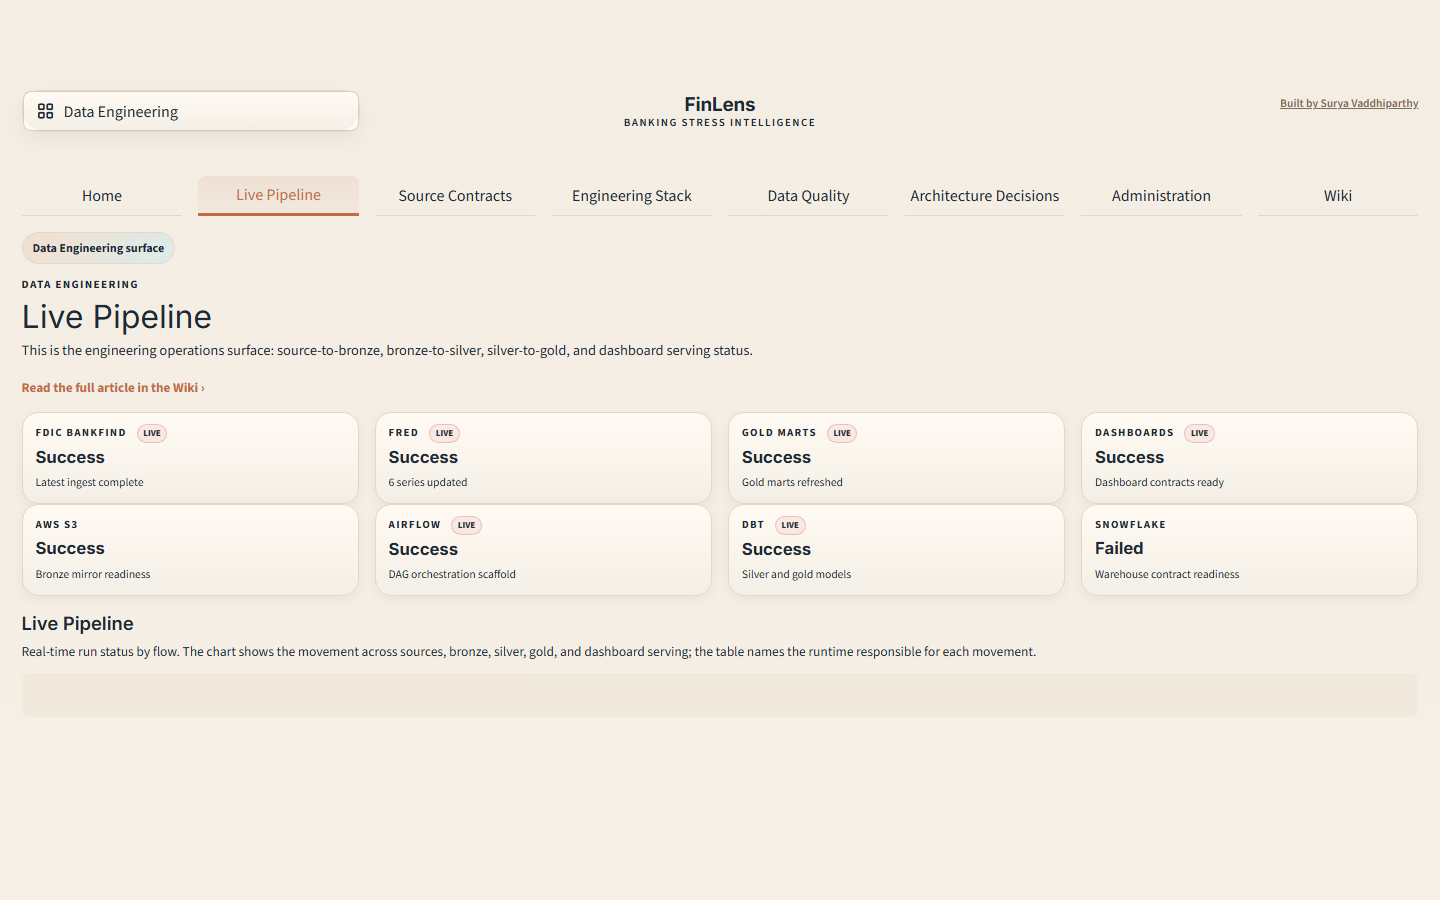
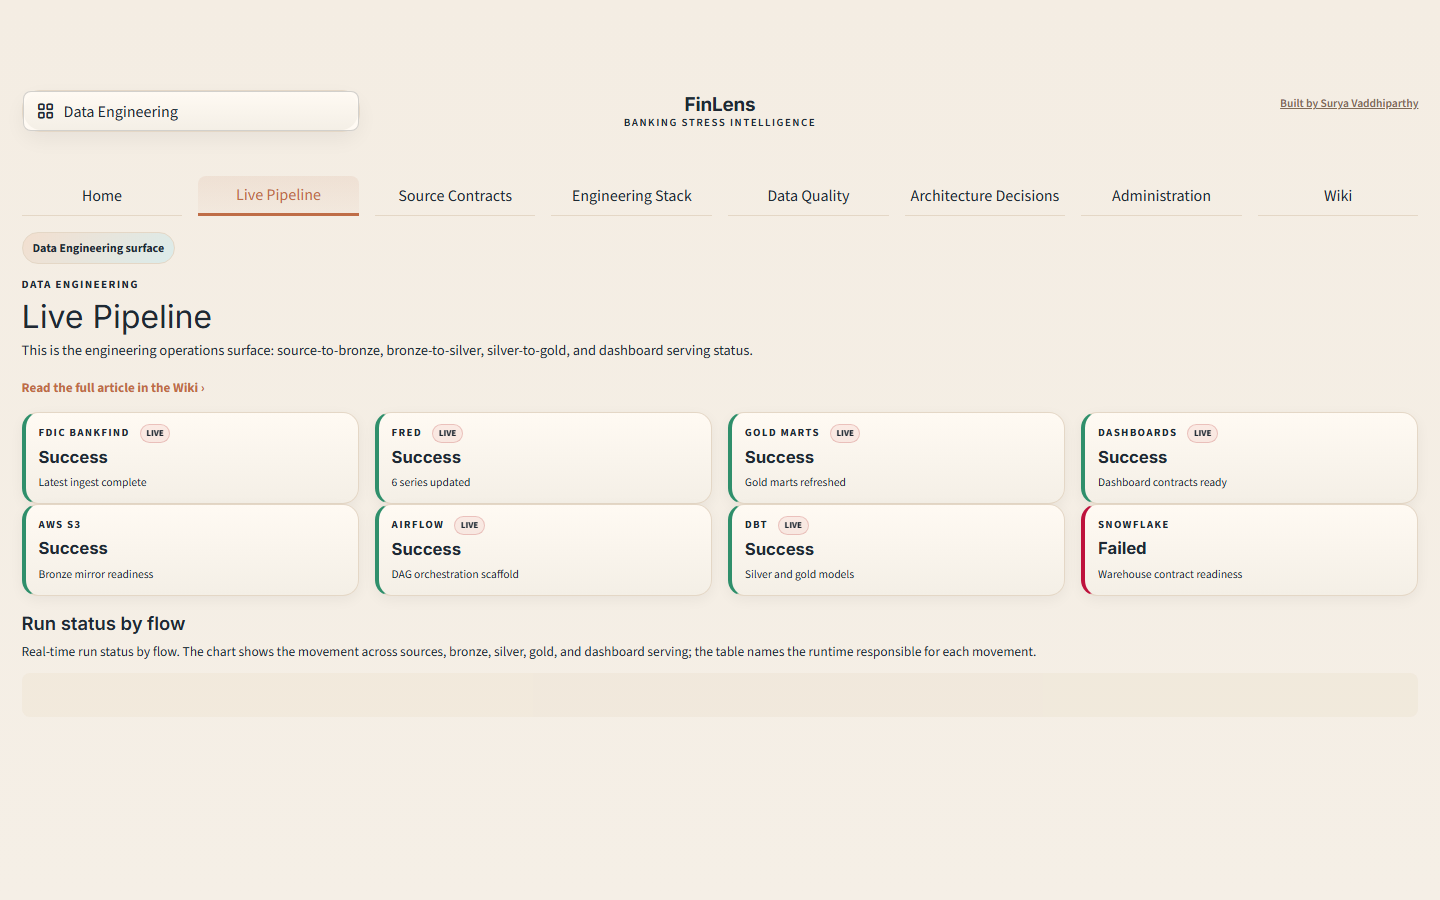
Ceiling UI pass: status-colored cards, heading dedupe, adversarial-review captures
- metric_card gains a status tone (ok/warn/bad colored edge) + status_tone() helper; DE pipeline
  and infra cards + the GX result card now show Failed/Deferred distinctly from Success (the
  Snowflake "Failed", from the expired free trial, is now scannable).
- De-duplicated the "Live Pipeline" heading (lower section -> "Run status by flow").
- Use-notice CTA set to type=primary.
- Adversarial full-page capture suite (audit/screenshots/ceiling/) + reviewer pass: the new
  chat widget and bank report were rated at/near ceiling; the earlier "blank" findings were
  capture-timing artifacts (surfaces verified to render via assertions + re-capture with waits).

diff --git a/streamlit_app/pages/4_Data_Engineering.py b/streamlit_app/pages/4_Data_Engineering.py
@@ -44,6 +44,7 @@ from streamlit_app.lib.ui_components import (
     inject_styles,
     metric_card,
     section_heading,
+    status_tone,
     styled_table,
     tech_bulletin,
 )
@@ -1192,29 +1193,37 @@ if active_section == "pipeline":
             live_label("FDIC BankFind"),
             pipeline_frame.iloc[0]["status"],
             pipeline_frame.iloc[0]["note"],
+            tone=status_tone(pipeline_frame.iloc[0]["status"]),
         )
     with card2:
-        metric_card(live_label("FRED"), pipeline_frame.iloc[2]["status"], pipeline_frame.iloc[2]["note"])
+        metric_card(live_label("FRED"), pipeline_frame.iloc[2]["status"],
+                    pipeline_frame.iloc[2]["note"], tone=status_tone(pipeline_frame.iloc[2]["status"]))
     with card3:
-        metric_card(live_label("Gold Marts"), pipeline_frame.iloc[5]["status"], pipeline_frame.iloc[5]["note"])
+        metric_card(live_label("Gold Marts"), pipeline_frame.iloc[5]["status"],
+                    pipeline_frame.iloc[5]["note"], tone=status_tone(pipeline_frame.iloc[5]["status"]))
     with card4:
         metric_card(
             live_label("Dashboards"),
             pipeline_frame.iloc[6]["status"],
             pipeline_frame.iloc[6]["note"],
+            tone=status_tone(pipeline_frame.iloc[6]["status"]),
         )
     infra1, infra2, infra3, infra4 = st.columns(4)
     stack = platform_stack_frame()
     with infra1:
-        metric_card("AWS S3", stack.iloc[0]["Status"], "Bronze mirror readiness")
+        metric_card("AWS S3", stack.iloc[0]["Status"], "Bronze mirror readiness",
+                    tone=status_tone(stack.iloc[0]["Status"]))
     with infra2:
-        metric_card(live_label("Airflow"), stack.iloc[1]["Status"], "DAG orchestration scaffold")
+        metric_card(live_label("Airflow"), stack.iloc[1]["Status"], "DAG orchestration scaffold",
+                    tone=status_tone(stack.iloc[1]["Status"]))
     with infra3:
-        metric_card(live_label("dbt"), stack.iloc[2]["Status"], "Silver and gold models")
+        metric_card(live_label("dbt"), stack.iloc[2]["Status"], "Silver and gold models",
+                    tone=status_tone(stack.iloc[2]["Status"]))
     with infra4:
-        metric_card("Snowflake", stack.iloc[4]["Status"], "Warehouse contract readiness")
+        metric_card("Snowflake", stack.iloc[4]["Status"], "Warehouse contract readiness",
+                    tone=status_tone(stack.iloc[4]["Status"]))
     section_heading(
-        "Live Pipeline",
+        "Run status by flow",
         "Real-time run status by flow. The chart shows the movement across sources, bronze, "
         "silver, gold, and dashboard serving; the table names the runtime responsible for each "
         "movement.",
@@ -1254,7 +1263,8 @@ elif active_section == "status":
         with gq1:
             metric_card("Suite result",
                         "PASS" if _gx.get("success") else "FAIL",
-                        f"{_gx.get('n_success', 0)}/{_gx.get('n_expectations', 0)} expectations")
+                        f"{_gx.get('n_success', 0)}/{_gx.get('n_expectations', 0)} expectations",
+                        tone="ok" if _gx.get("success") else "bad")
         with gq2:
             metric_card("Table", "gold mart", _gx.get("table", ", "))
         with gq3:

diff --git a/streamlit_app/lib/ui_components.py b/streamlit_app/lib/ui_components.py
@@ -9,10 +9,14 @@ def inject_styles(css: str) -> None:
     st.markdown(css, unsafe_allow_html=True)
 
 
-def metric_card(label: str, value: str, subtext: str) -> None:
+def metric_card(label: str, value: str, subtext: str, tone: str | None = None) -> None:
+    """tone in {"ok","warn","bad"} adds a status-colored left edge so a Failed/Deferred card is
+    scannable at a glance against the Success cards (defaults to the neutral card)."""
+    edge = {"ok": "#2f8f6b", "warn": "#bf6d47", "bad": "#be123c"}.get(tone or "")
+    style = f' style="border-left:4px solid {edge}"' if edge else ""
     st.markdown(
         f"""
-        <div class="metric-card">
+        <div class="metric-card"{style}>
             <div class="metric-label">{label}</div>
             <div class="metric-value">{value}</div>
             <div class="metric-sub">{subtext}</div>
@@ -20,6 +24,18 @@ def metric_card(label: str, value: str, subtext: str) -> None:
         """,
         unsafe_allow_html=True,
     )
+
+
+def status_tone(status: str | None) -> str | None:
+    """Map a pipeline/platform status string to a metric_card tone."""
+    s = (status or "").strip().lower()
+    if s in {"success", "ready", "pass", "active", "live"}:
+        return "ok"
+    if s in {"failed", "missing data", "missing", "unavailable", "blocked"}:
+        return "bad"
+    if s in {"deferred", "not activated", "scaffolded", "pending", "running"}:
+        return "warn"
+    return None
 
 
 def section_heading(title: str, copy: str | None = None) -> None:

diff --git a/streamlit_app/app.py b/streamlit_app/app.py
@@ -139,7 +139,8 @@ def _legal_disclaimer() -> None:
         on official U.S. government and regulator sources.
         """,
     )
-    if st.button("I understand", key="accept_home_disclaimer", use_container_width=True):
+    if st.button("I understand", key="accept_home_disclaimer", use_container_width=True,
+                 type="primary"):
         st.session_state["home_disclaimer_accepted"] = True
         st.rerun()
 
